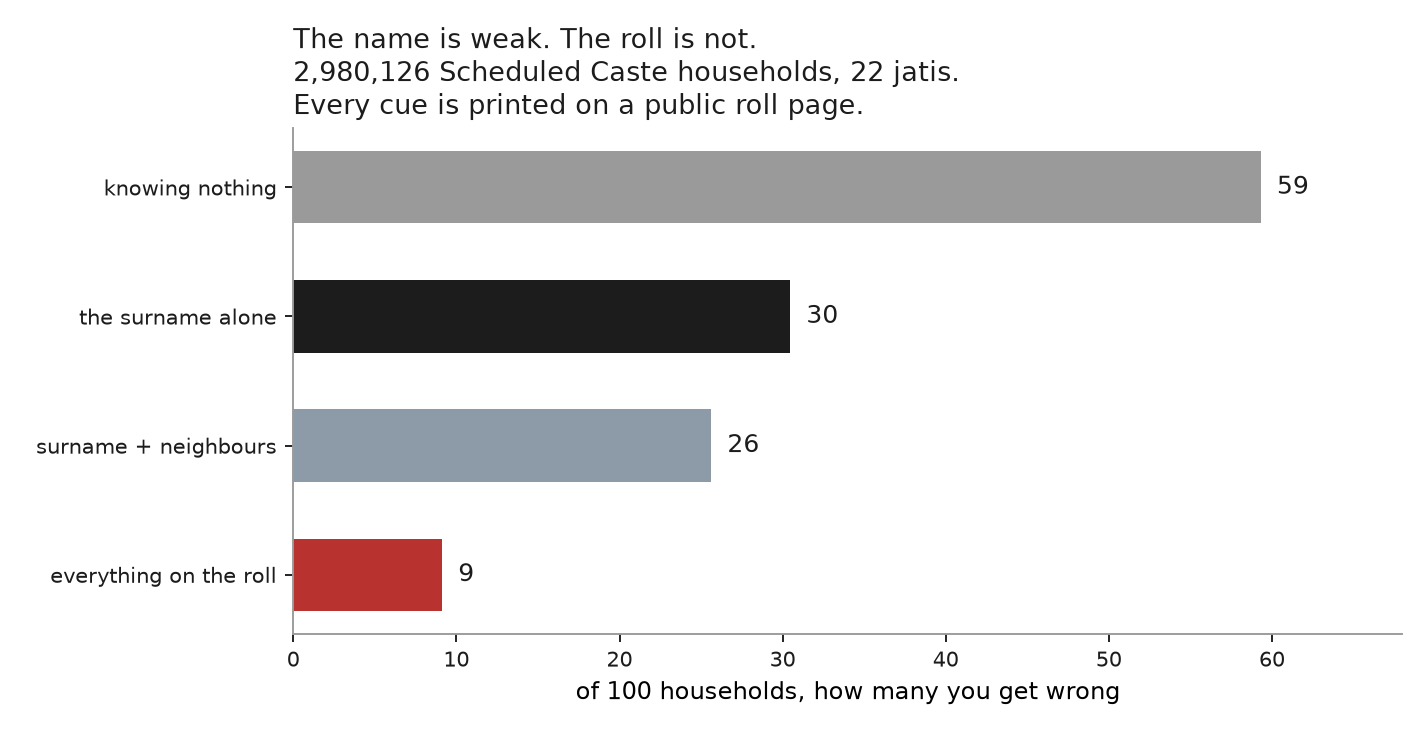
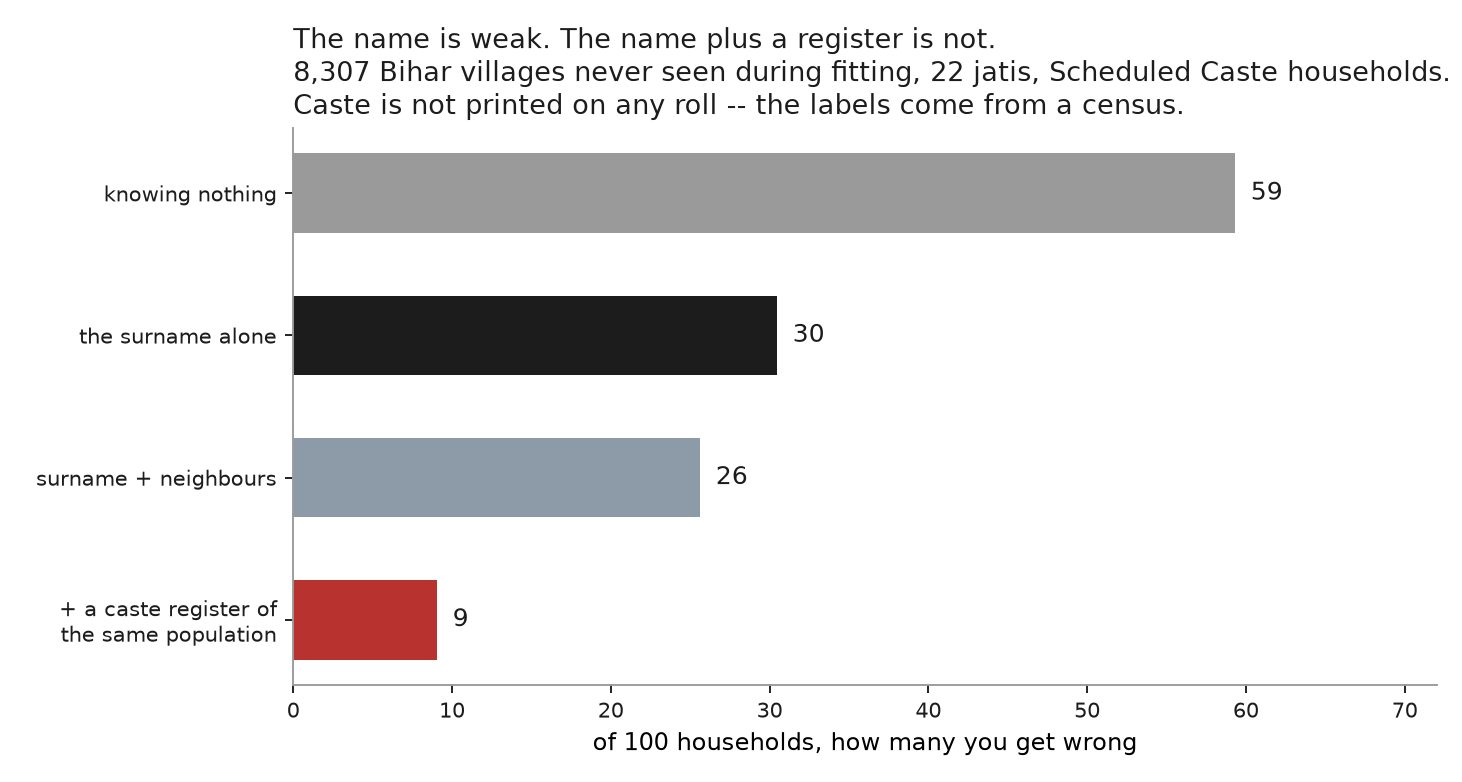
Score every bracket row on the same held-out villages
The four rows of the Mahadalit bracket were being put side by side while
answering different questions. Two defects:

The ceiling was a leave-one-household-out number while the rungs above it
were held-out-village numbers. `ceiling()` now takes a `test_mask`, so the
cells are still built from everybody -- which is what a reader of the whole
roll has -- but the scoring is restricted to the same held-out set. The
number barely moves, 9.12 to 9.04, which is worth knowing rather than
assuming.

Worse, the two experiments were splitting different village lists.
naampata's ladder covers 27,687 villages and the raw census files 28,602,
and the independent shuffles put only 2,509 of some 8,300 test villages in
common. The neighbour split is now threaded down to the raw frame via
`attrs["test_villages"]`.

The figure subtitle claimed one household count for all four bars. It
cannot: the ladder retains about six percent fewer households inside the
same villages. It now names the villages, which the rows do share, and the
note states the household gap instead of eliding it.

Also replaces `.agg("|".join, axis=1)` over 2.98M rows -- row-wise Python
that turned a two-minute pipeline into an hour -- with `str.cat`.

diff --git a/analyses/06_neighbours/note.py b/analyses/06_neighbours/note.py
@@ -79,6 +79,11 @@ def main() -> None:
     mah_blind, mah_name = mah["blind"], mah["surname_only"]
     mah_nb = mah["surname_plus_neighbours"]
     ceiling = ceil["mistakes_per_100"] if ceil else float("nan")
+    ceiling_all = summary.get("ceiling_all_households", {}).get(
+        "mistakes_per_100", float("nan")
+    )
+    ceil_households = ceil["households"] if ceil else 0
+    neigh_households = int(mah["test_households"])
     ceil_groups = ceil["groups"] if ceil else 0
     fine_cover = ceil["coverage"][0]["resolves"] if ceil else 0
     fallback = ceil["share_needing_the_global_fallback"] if ceil else 0
@@ -191,8 +196,15 @@ The question this repo keeps asking is what a surname gives away when it is all
 you have. The answer is a floor. It is worth finishing the sentence and asking
 what the *most* an ordinary reader of a public document could do.
 
-Every cue below is printed on an electoral roll page: the name, the father's or
-husband's name, and the hamlet.
+Be precise about who this adversary is, because an earlier draft of this
+section overstated it. The **cues** are all printed on an electoral roll page:
+the name, the father's or husband's name, and the hamlet. The **labels** are
+not. Caste appears on no roll, so knowing which name-and-hamlet combinations go
+with which jati has to come from a caste-labelled register -- a census, or a
+state caste survey. Both exist.
+
+So this is not a stranger with a roll page. It is someone holding a caste
+register for the same population and reading your entry in the roll.
 
 ![The whole bracket]({FIG}/ceiling.png)
 
@@ -201,16 +213,30 @@ husband's name, and the hamlet.
 | nothing | {mah_blind:.0f} |
 | the surname alone | {mah_name:.0f} |
 | surname + neighbours | {mah_nb:.0f} |
-| **everything on the roll** | **{ceiling:.0f}** |
+| **+ a caste register of the same population** | **{ceiling:.0f}** |
 
-**The name is weak. The roll is not.** A surname alone leaves
-{mah_name:.0f} mistakes per hundred across {ceil_groups} jatis; the page it is
-printed on leaves {ceiling:.0f}.
+**The name is weak. The name joined to a register is not.** A surname alone
+leaves {mah_name:.0f} mistakes per hundred across {ceil_groups} jatis. The same
+surname, plus the father's name and the hamlet from the roll, matched against a
+caste register, leaves {ceiling:.0f}.
+
+All four rows are scored on **the same held-out villages**, so they answer one
+question rather than two. That alignment had to be forced: naampata's ladder
+covers 27,687 villages and the raw census files 28,602, and splitting the two
+lists independently put only 2,509 of some 8,300 test villages in common, which
+had the bracket describing different people in different rows.
+
+The two sources still count households slightly differently inside those
+villages -- {neigh_households:,} in the ladder against {ceil_households:,} in the
+raw files, because the ladder retains about six percent fewer. Scoring every
+household rather than the held-out ones moves the ceiling from {ceiling:.2f} to
+{ceiling_all:.2f}, so nothing here turns on the choice.
 
 That reframes what the repo has been measuring. The finding is not that caste is
 hard to infer in India. It is that the *name* is a poor instrument and the
-*record* is a good one, and the exposure belongs to the document rather than to
-the word.
+*join* is a good one. The exposure is not in the word, and not in any single
+document: it is in the fact that a public roll and a caste register describe the
+same people and can be laid on top of each other.
 
 ### The number that was nearly published instead
 

diff --git a/analyses/06_neighbours/pipeline.py b/analyses/06_neighbours/pipeline.py
@@ -71,12 +71,15 @@ def main() -> None:
     source = ladders()
 
     results, surname_tables = [], []
+    census_test_villages = None
     for label, loader, weight, parts in LADDERS:
         ladder = getattr(source, loader)()
         if ladder is None:
             continue
         vsj = nb.village_surname_jati(ladder, "surname+village", weight, parts)
         scored = nb.fit_and_score(vsj, weight)
+        if label == "Mahadalit census":
+            _, census_test_villages = nb.split_villages(vsj["village"].unique())
         scored["ladder"] = label
         results.append(scored)
 
@@ -94,13 +97,29 @@ def main() -> None:
     # The other end of the bracket: everything the roll prints. Only the
     # Mahadalit census carries the father's name and the hamlet on the same row.
     mahadalit = _mahadalit()
-    if mahadalit is not None:
+    if mahadalit is not None and census_test_villages is not None:
+        mahadalit.attrs["test_villages"] = census_test_villages
         chain = [
             ["surname", "fat_last", "fat_first"] + mahadalit.attrs["geo"],
             ["surname"] + mahadalit.attrs["geo"],
             ["surname"],
         ]
-        summary["ceiling"] = C.ceiling(mahadalit, chain)
+        # Score on the very same held-out villages the neighbour rungs use.
+        # Deriving a split independently does NOT do this: naampata's ladder
+        # covers 27,687 villages and the raw files 28,602, so shuffling the two
+        # lists put only 2,509 of ~8,300 test villages in common and the bracket
+        # rows described different people.
+        # str.cat, not .agg(axis=1): the latter is row-wise Python and turned
+        # a two-minute pipeline into an hour on 2.98M rows.
+        geo4 = [mahadalit[c] for c in mahadalit.attrs["geo"][:4]]
+        village = geo4[0].str.cat(geo4[1:], sep="|")
+        test_v = mahadalit.attrs["test_villages"]
+        mask = village.isin(test_v).to_numpy()
+        summary["ceiling"] = C.ceiling(
+            mahadalit, chain, test_mask=mask, villages_held_out=len(test_v)
+        )
+        summary["ceiling"]["shares_split_with_neighbour_rungs"] = True
+        summary["ceiling_all_households"] = C.ceiling(mahadalit, chain)
     (TAB / "summary.json").write_text(json.dumps(summary, indent=2))
 
     import figures

diff --git a/analyses/06_neighbours/ceiling.py b/analyses/06_neighbours/ceiling.py
@@ -44,9 +44,20 @@ def _leave_one_out(cell: pd.Series, group: np.ndarray, n_groups: int):
 
 
 def ceiling(
-    frame: pd.DataFrame, chain: list[list[str]], group_col: str = "jati"
+    frame: pd.DataFrame,
+    chain: list[list[str]],
+    group_col: str = "jati",
+    test_mask: np.ndarray | None = None,
+    villages_held_out: int | None = None,
 ) -> dict:
-    """Best achievable error using a fallback chain of cues, scoring everyone."""
+    """Best achievable error using a fallback chain of cues, scoring everyone.
+
+    `test_mask` restricts *scoring* to a held-out set while the cells are still
+    built from everybody, which is what a reader of the whole roll actually has.
+    Without it the ceiling is a leave-one-household-out number and cannot be put
+    in the same table as the held-out-village figures: those answer "a village
+    you have never seen", this one answers "a village you can read".
+    """
     groups = sorted(frame[group_col].unique())
     gmap = {g: i for i, g in enumerate(groups)}
     truth = frame[group_col].map(gmap).to_numpy()
@@ -64,10 +75,13 @@ def ceiling(
     unresolved = float((final < 0).mean())
     final[final < 0] = fallback
 
+    keep = np.ones(len(frame), dtype=bool) if test_mask is None else test_mask
     return {
-        "mistakes_per_100": float(100 * (final != truth).mean()),
-        "households": int(len(frame)),
+        "mistakes_per_100": float(100 * (final[keep] != truth[keep]).mean()),
+        "households": int(keep.sum()),
         "groups": len(groups),
         "coverage": coverage,
         "share_needing_the_global_fallback": unresolved,
+        "scored_on": "held-out villages" if test_mask is not None else "everyone",
+        "villages_held_out": villages_held_out,
     }

diff --git a/tests/test_neighbours.py b/tests/test_neighbours.py
@@ -98,7 +98,11 @@ def test_the_ceiling_scores_every_household():
     s = json.load(open(path))
     if "ceiling" not in s:
         pytest.skip("Mahadalit census unavailable")
-    c = s["ceiling"]
+    # The bracket's own row is scored on held-out villages, to match the rungs
+    # above it. The everyone-scored version is kept beside it and is what this
+    # test guards, because it is the one that can silently shrink to the easy
+    # third.
+    c = s["ceiling_all_households"]
 
     assert c["households"] > 2_000_000
     # The finest cue resolves a minority. If this ever reads high, the fallback
@@ -126,3 +130,24 @@ def test_the_ceiling_beats_the_name_but_does_not_reach_zero():
     held = pd.read_csv(base / "held_out.csv").set_index("ladder")
     name_only = held.loc["Mahadalit census", "surname_only"]
     assert s["ceiling"]["mistakes_per_100"] < name_only
+
+
+def test_every_bracket_row_uses_the_same_held_out_villages():
+    """The bracket puts four numbers side by side, so they must answer one
+    question. Splitting naampata's 27,687 villages and the raw files' 28,602
+    independently put only 2,509 of ~8,300 test villages in common, and the rows
+    silently described different people."""
+    import json
+    import pathlib
+
+    path = (
+        pathlib.Path(__file__).resolve().parent.parent
+        / "analyses/06_neighbours/out/tab/summary.json"
+    )
+    if not path.exists():
+        pytest.skip("analysis 06 not built")
+    s = json.load(open(path))
+    if "ceiling" not in s:
+        pytest.skip("Mahadalit census unavailable")
+    assert s["ceiling"].get("shares_split_with_neighbour_rungs") is True
+    assert s["ceiling"]["scored_on"] == "held-out villages"

diff --git a/analyses/06_neighbours/figures.py b/analyses/06_neighbours/figures.py
@@ -119,21 +119,26 @@ def ceiling(result: dict, held: pd.DataFrame, out: Path) -> None:
         ("knowing nothing", mah["blind"], MUTED),
         ("the surname alone", mah["surname_only"], INK),
         ("surname + neighbours", mah["surname_plus_neighbours"], "#8d9aa8"),
-        ("everything on the roll", result["mistakes_per_100"], ACCENT),
+        (
+            "+ a caste register of\nthe same population",
+            result["mistakes_per_100"],
+            ACCENT,
+        ),
     ]
     y = np.arange(len(steps))[::-1]
-    fig, ax = plt.subplots(figsize=(8.4, 4.3))
+    fig, ax = plt.subplots(figsize=(8.6, 4.6))
     ax.barh(y, [v for _, v, _ in steps], color=[c for _, _, c in steps], height=0.56)
     for yi, (_, v, _) in zip(y, steps):
         ax.text(v + 1.0, yi, f"{v:.0f}", va="center", fontsize=10.5, color=INK)
     ax.set_yticks(y)
     ax.set_yticklabels([lab for lab, _, _ in steps], fontsize=10)
-    ax.set_xlim(0, 68)
+    ax.set_xlim(0, 72)
     ax.set_xlabel("of 100 households, how many you get wrong")
     ax.set_title(
-        "The name is weak. The roll is not.\n"
-        f"{result['households']:,} Scheduled Caste households, "
-        f"{result['groups']} jatis.\nEvery cue is printed on a public roll page.",
+        "The name is weak. The name plus a register is not.\n"
+        f"{result['villages_held_out']:,} Bihar villages never seen during "
+        f"fitting, {result['groups']} jatis, Scheduled Caste households.\n"
+        "Caste is not printed on any roll -- the labels come from a census.",
         color=INK,
         loc="left",
         fontsize=11.5,

diff --git a/analyses/06_neighbours/note.md b/analyses/06_neighbours/note.md
@@ -111,8 +111,15 @@ The question this repo keeps asking is what a surname gives away when it is all
 you have. The answer is a floor. It is worth finishing the sentence and asking
 what the *most* an ordinary reader of a public document could do.
 
-Every cue below is printed on an electoral roll page: the name, the father's or
-husband's name, and the hamlet.
+Be precise about who this adversary is, because an earlier draft of this section
+overstated it. The **cues** are all printed on an electoral roll page: the name,
+the father's or husband's name, and the hamlet. The **labels** are not. Caste
+appears on no roll, so knowing which name-and-hamlet combinations go with which
+jati has to come from a caste-labelled register -- a census, or a state caste
+survey. Both exist.
+
+So this is not a stranger with a roll page. It is someone holding a caste
+register for the same population and reading your entry in the roll.
 
 ![The whole bracket](out/fig/ceiling.png)
 
@@ -121,15 +128,30 @@ husband's name, and the hamlet.
 | nothing | 59 |
 | the surname alone | 30 |
 | surname + neighbours | 26 |
-| **everything on the roll** | **9** |
+| **+ a caste register of the same population** | **9** |
 
-**The name is weak. The roll is not.** A surname alone leaves 30 mistakes per
-hundred across 22 jatis; the page it is printed on leaves 9.
+**The name is weak. The name joined to a register is not.** A surname alone
+leaves 30 mistakes per hundred across 22 jatis. The same surname, plus the
+father's name and the hamlet from the roll, matched against a caste register,
+leaves 9.
+
+All four rows are scored on **the same held-out villages**, so they answer one
+question rather than two. That alignment had to be forced: naampata's ladder
+covers 27,687 villages and the raw census files 28,602, and splitting the two
+lists independently put only 2,509 of some 8,300 test villages in common, which
+had the bracket describing different people in different rows.
+
+The two sources still count households slightly differently inside those
+villages -- 834,908 in the ladder against 887,512 in the raw files, because the
+ladder retains about six percent fewer. Scoring every household rather than the
+held-out ones moves the ceiling from 9.04 to 9.12, so nothing here turns on the
+choice.
 
 That reframes what the repo has been measuring. The finding is not that caste is
 hard to infer in India. It is that the *name* is a poor instrument and the
-*record* is a good one, and the exposure belongs to the document rather than to
-the word.
+*join* is a good one. The exposure is not in the word, and not in any single
+document: it is in the fact that a public roll and a caste register describe the
+same people and can be laid on top of each other.
 
 ### The number that was nearly published instead
 
@@ -144,7 +166,7 @@ and flattered it eightfold.
 The fix is to make the guesser answer for everybody: when the finest cue cannot
 resolve someone, fall back to a coarser one, and when nothing resolves, fall
 back to the commonest jati. Only 1.3% of households need that last resort. That
-is the difference between 9.1 and 1.2.
+is the difference between 9.0 and 1.2.
 
 ## Limits
 
